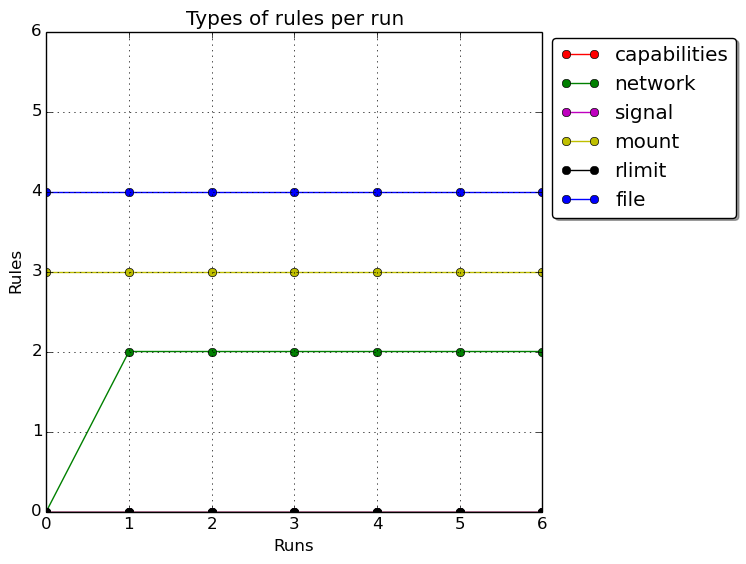
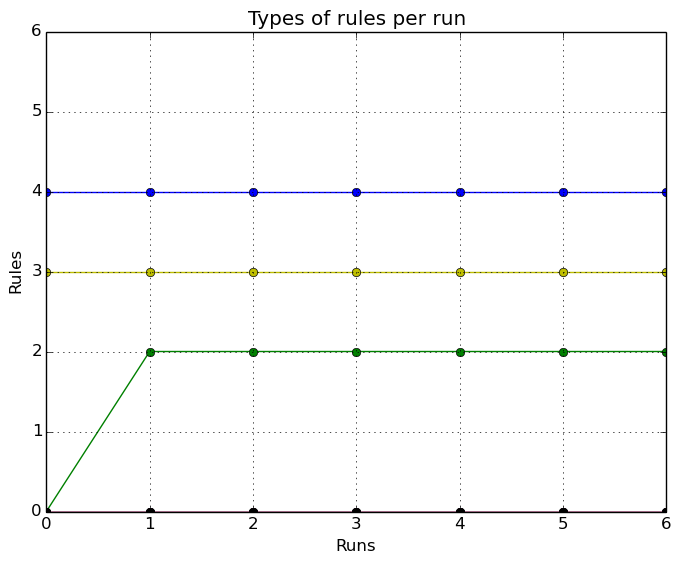
Get plots without legend

diff --git a/Benchmarks/media-streaming/Parser/metrics/plot_type_rules.py b/Benchmarks/media-streaming/Parser/metrics/plot_type_rules.py
@@ -102,12 +102,12 @@ ax.plot(x_Axis, file_rules, label="file", color="b", marker='o')
 #ax.legend(loc='upper center', bbox_to_anchor=(0.5, 1.05),
 #                  ncol=3, fancybox=True, shadow=True)
 
-box = ax.get_position()
-ax.set_position([box.x0, box.y0, box.width * 0.8, box.height])
+#box = ax.get_position()
+#ax.set_position([box.x0, box.y0, box.width * 0.8, box.height])
 
 # Put a legend below current axis
-ax.legend(loc='center left', bbox_to_anchor=(1, 0.8),
-                  fancybox=True, shadow=True)
+#ax.legend(loc='center left', bbox_to_anchor=(1, 0.8),
+ #                 fancybox=True, shadow=True)
 
 ax.grid()
 
